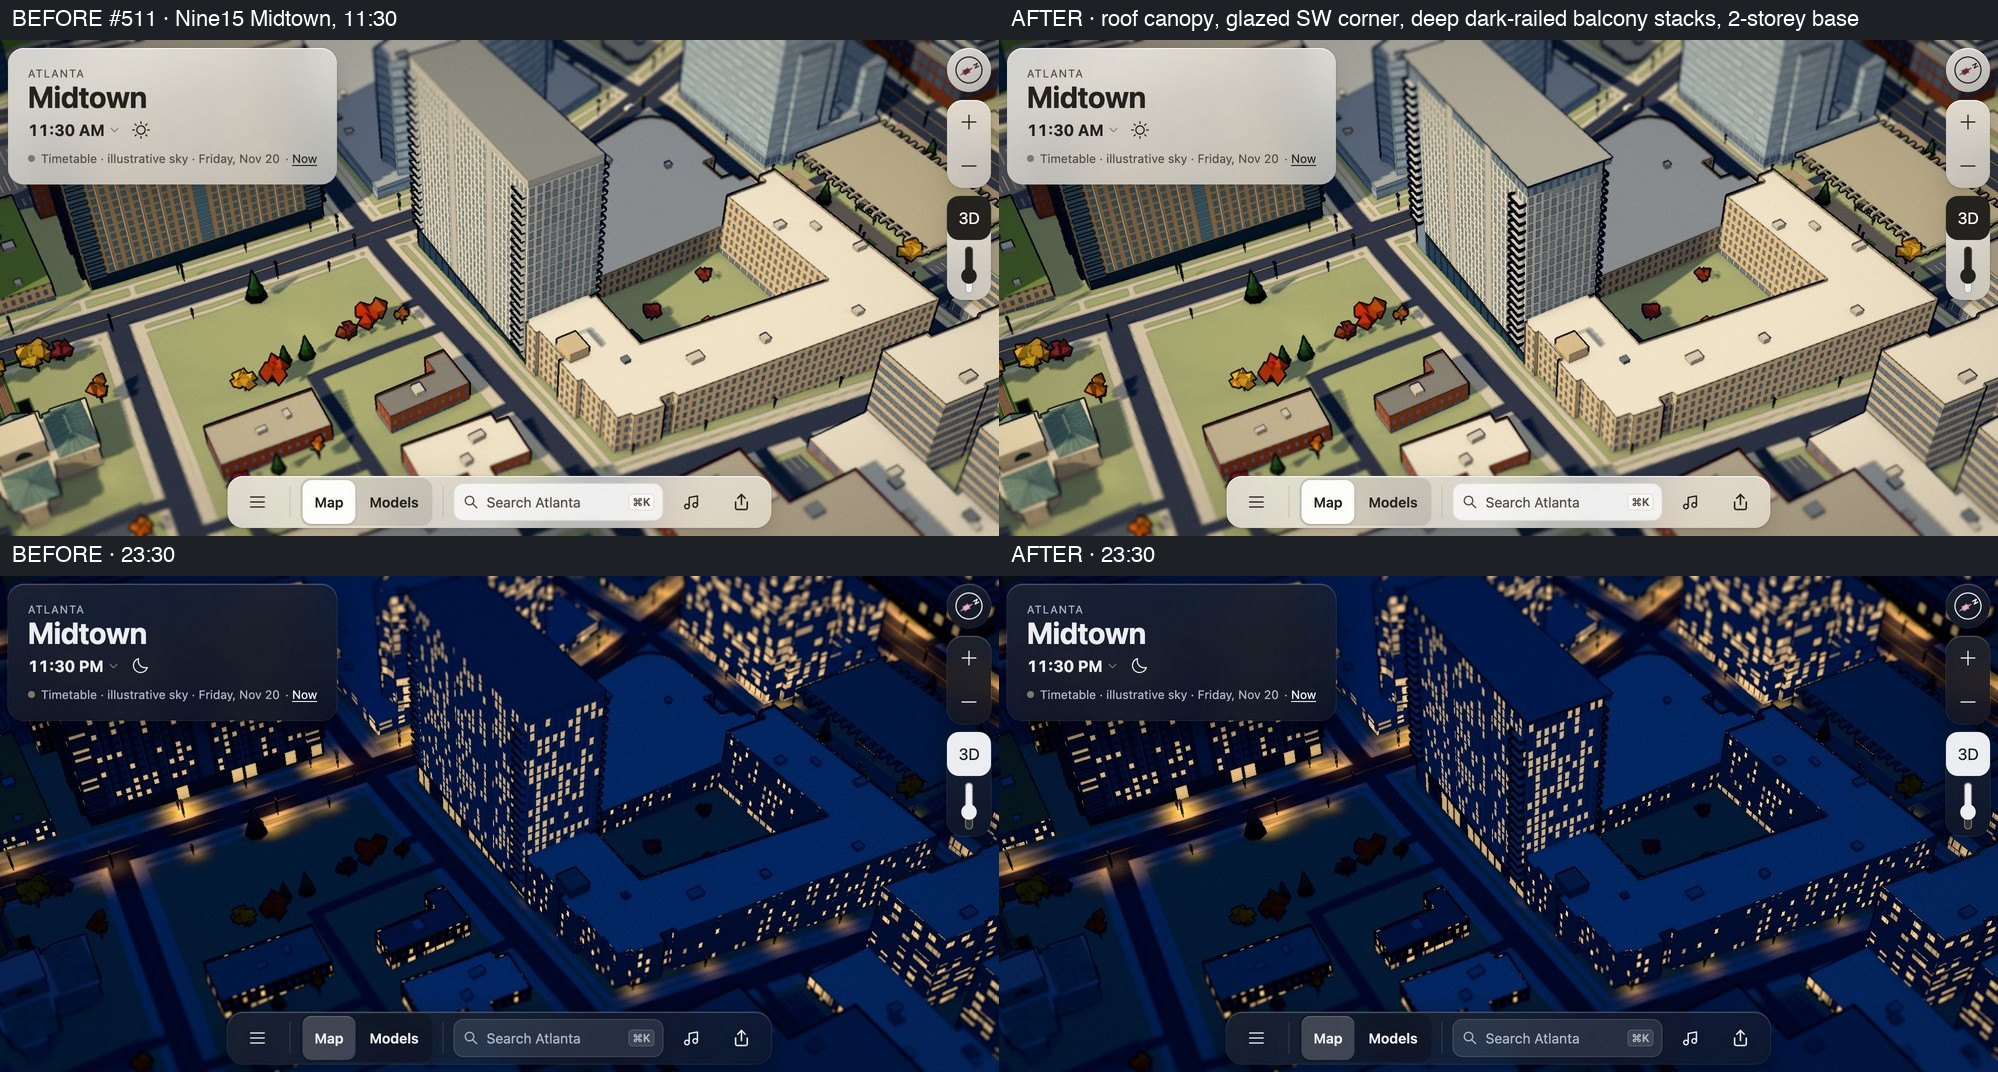
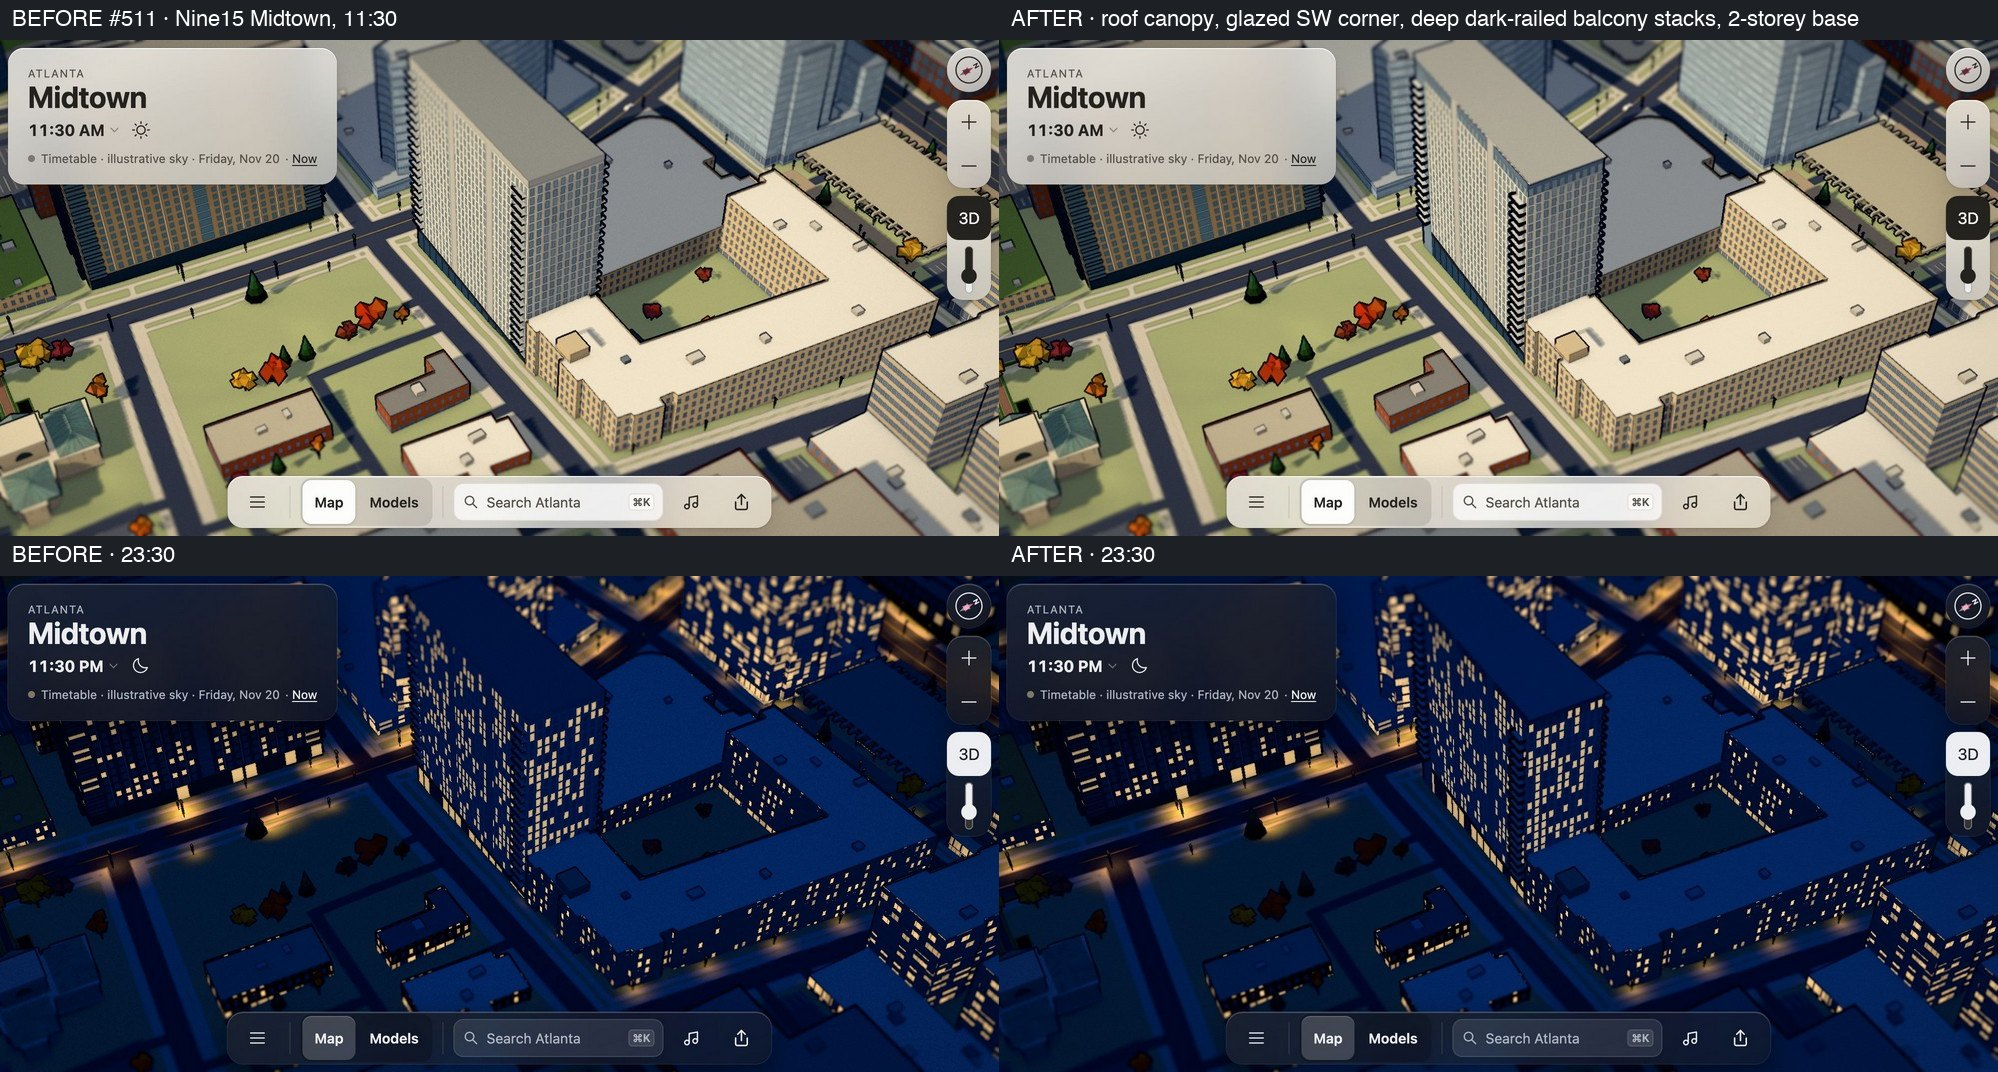
Keep Nine15's corner balconies and canopy inside the footprint allowance

Changed region(s): [[0.6827, 0.0308, 0.8068, 0.3078], [0.6827, 0.5541, 0.7758, 0.8004]]

diff --git a/web/src/city/nine15-midtown.ts b/web/src/city/nine15-midtown.ts
@@ -15,7 +15,7 @@ const roof = grade + 71.3;
 const parapet = grade + 73.6;
 
 // The 21-storey slab on 8th Street at West Peachtree, squared from the mapped outline.
-const tower: P2[] = [[414.8, -2863.6], [488.1, -2862.6], [487.9, -2887.5], [415.6, -2886.4]];
+const tower: P2[] = [[416.1, -2865.5], [488.1, -2862.6], [487.9, -2887.5], [415.6, -2886.4]];
 
 const local = (ring: P2[]): P2[] => ring.map(([x, z]) => [x - origin[0], z - origin[1]]);
 
@@ -47,7 +47,7 @@ export function createNine15Midtown(buildings: VBuilding[], grid: GroundGrid, qu
   shell.prism(t, shell.base, baseTop, brick, '#8f8f8c');
   shell.prism(t, baseTop, roof, white, '#a3a4a2');
   // The thin roof canopy overhangs both ends; the top floor under it is recessed glass.
-  const canopy: P2[] = [[-38.2, -12.6], [39.1, -13.6], [38.9, 13.5], [-37.4, 12.6]];
+  const canopy: P2[] = [[-36.6, -11.4], [38.1, -12.5], [38.3, 12.4], [-36.1, 9.5]];
   shell.prism(canopy, parapet - 0.45, parapet, '#eeeeea', '#b9bab7');
 
   const floors = Math.round((roof - baseTop) / 3.15);

diff --git a/docs/log/ui/skins-3-recognition/README.md b/docs/log/ui/skins-3-recognition/README.md
@@ -20,7 +20,7 @@ Identifying features, from the Midtown Alliance rendering, confirmed by the Dece
 2. Deep corner balcony stacks with dark rails.
 3. A two-storey charcoal base with the tall glazed corner at West Peachtree and 8th.
 
-- **Changes:** a 0.45 m roof canopy with a 2 m overhang at each end, and a recessed blue-grey glazed band on the top floor. The corner balcony stacks are 2.2 m deep with dark rails and side rails; the low tier keeps a dark rail band on every second floor. The charcoal base is now 8.5 m, two storeys. A full-height glazed bay runs 7 m along both faces at the south-west corner.
+- **Changes:** a 0.45 m roof canopy with a 1.2 m overhang at each end (trimmed to stay within the footprint allowance), and a recessed blue-grey glazed band on the top floor. The corner balcony stacks are 2.2 m deep with dark rails and side rails; the low tier keeps a dark rail band on every second floor. The charcoal base is now 8.5 m, two storeys. A full-height glazed bay runs 7 m along both faces at the south-west corner.
 
 ## Views
 
